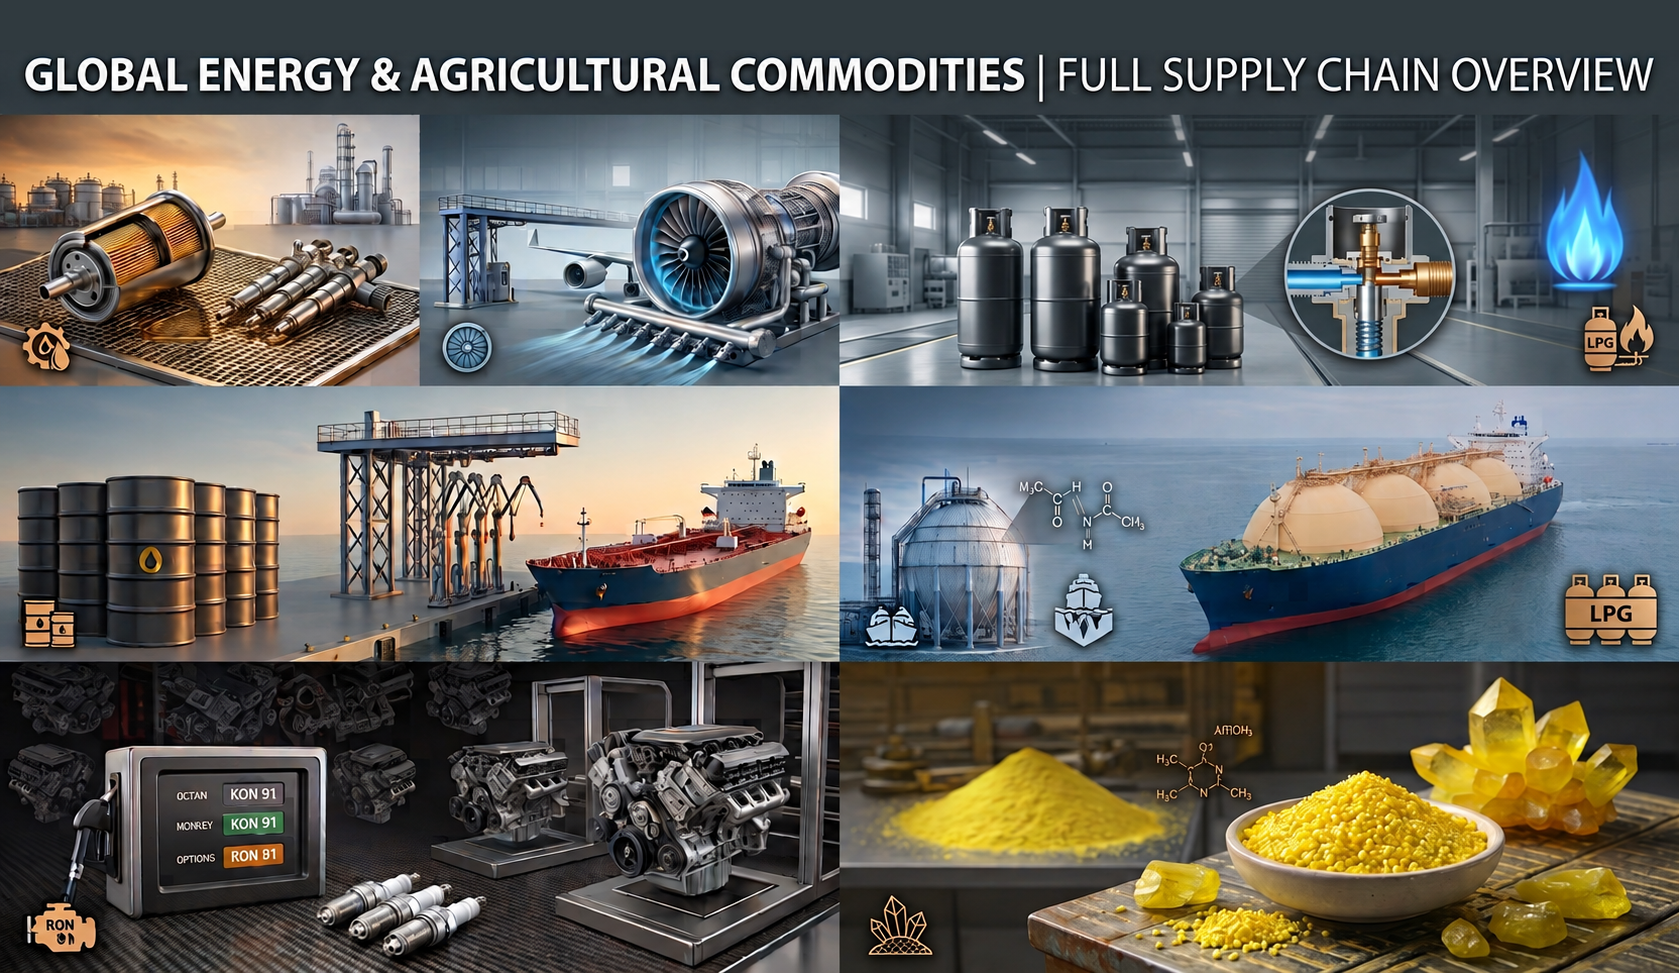
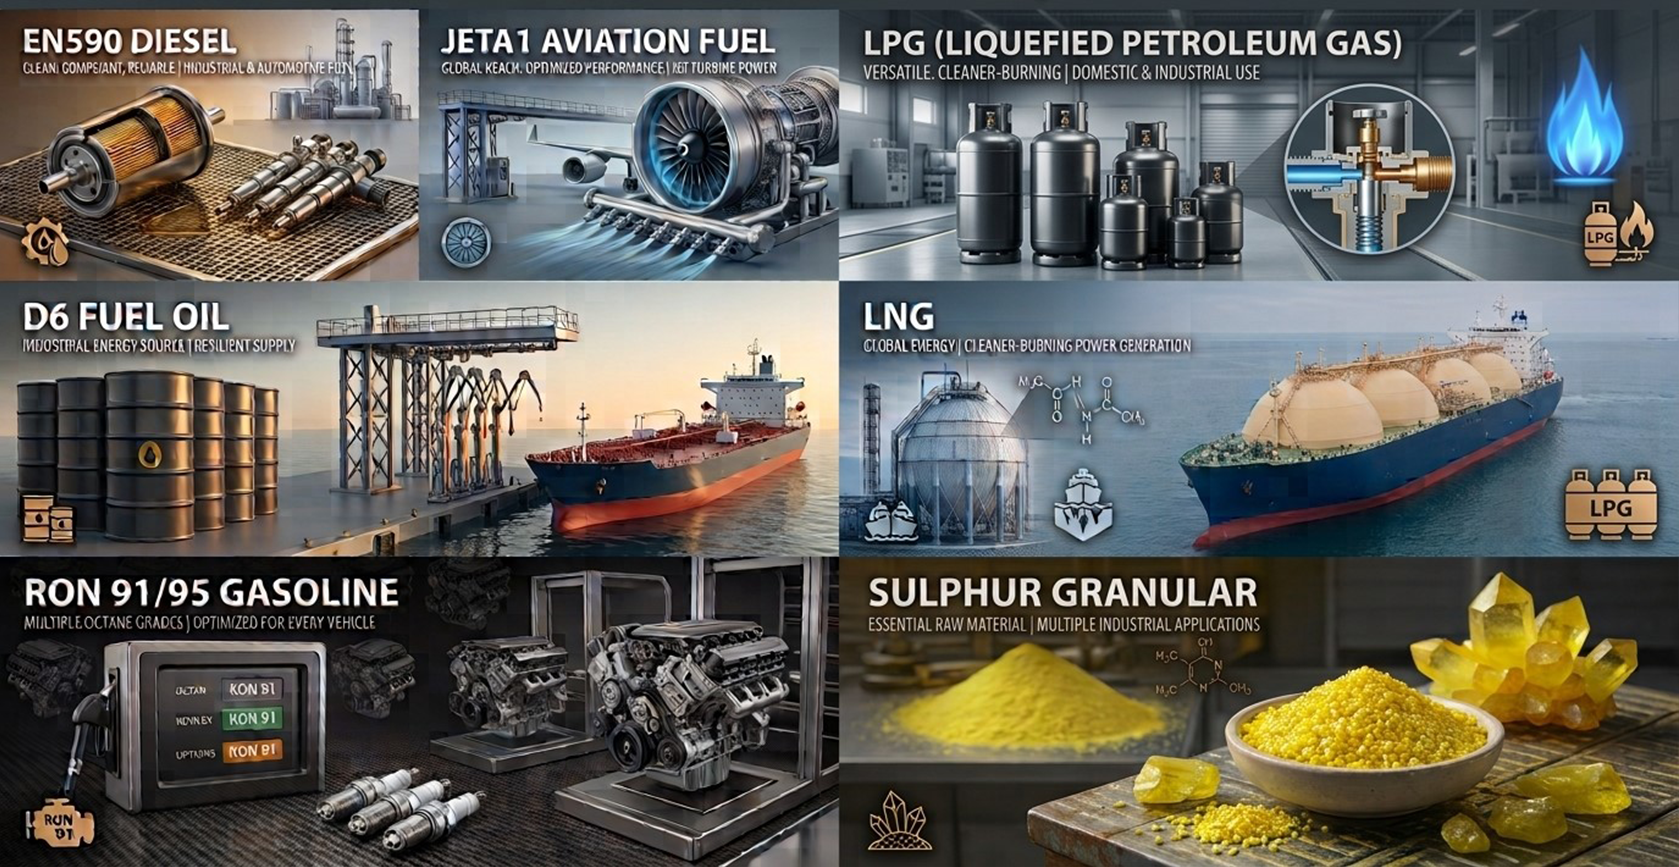
done

diff --git a/index.html b/index.html
@@ -1212,7 +1212,12 @@
             © <span data-current-year=""></span> Q8 Petrol (ME-SL). All rights
             reserved.
           </p>
-          <p>Institutional energy &amp; commodity trade facilitation.</p>
+          <p>
+            Concept &amp; Design by
+            <a href="https://www.genytechnologies.com/"
+              ><span style="color: rgb(9, 134, 86)">GenY Tech</span></a
+            >
+          </p>
         </div>
       </div>
     </footer>
